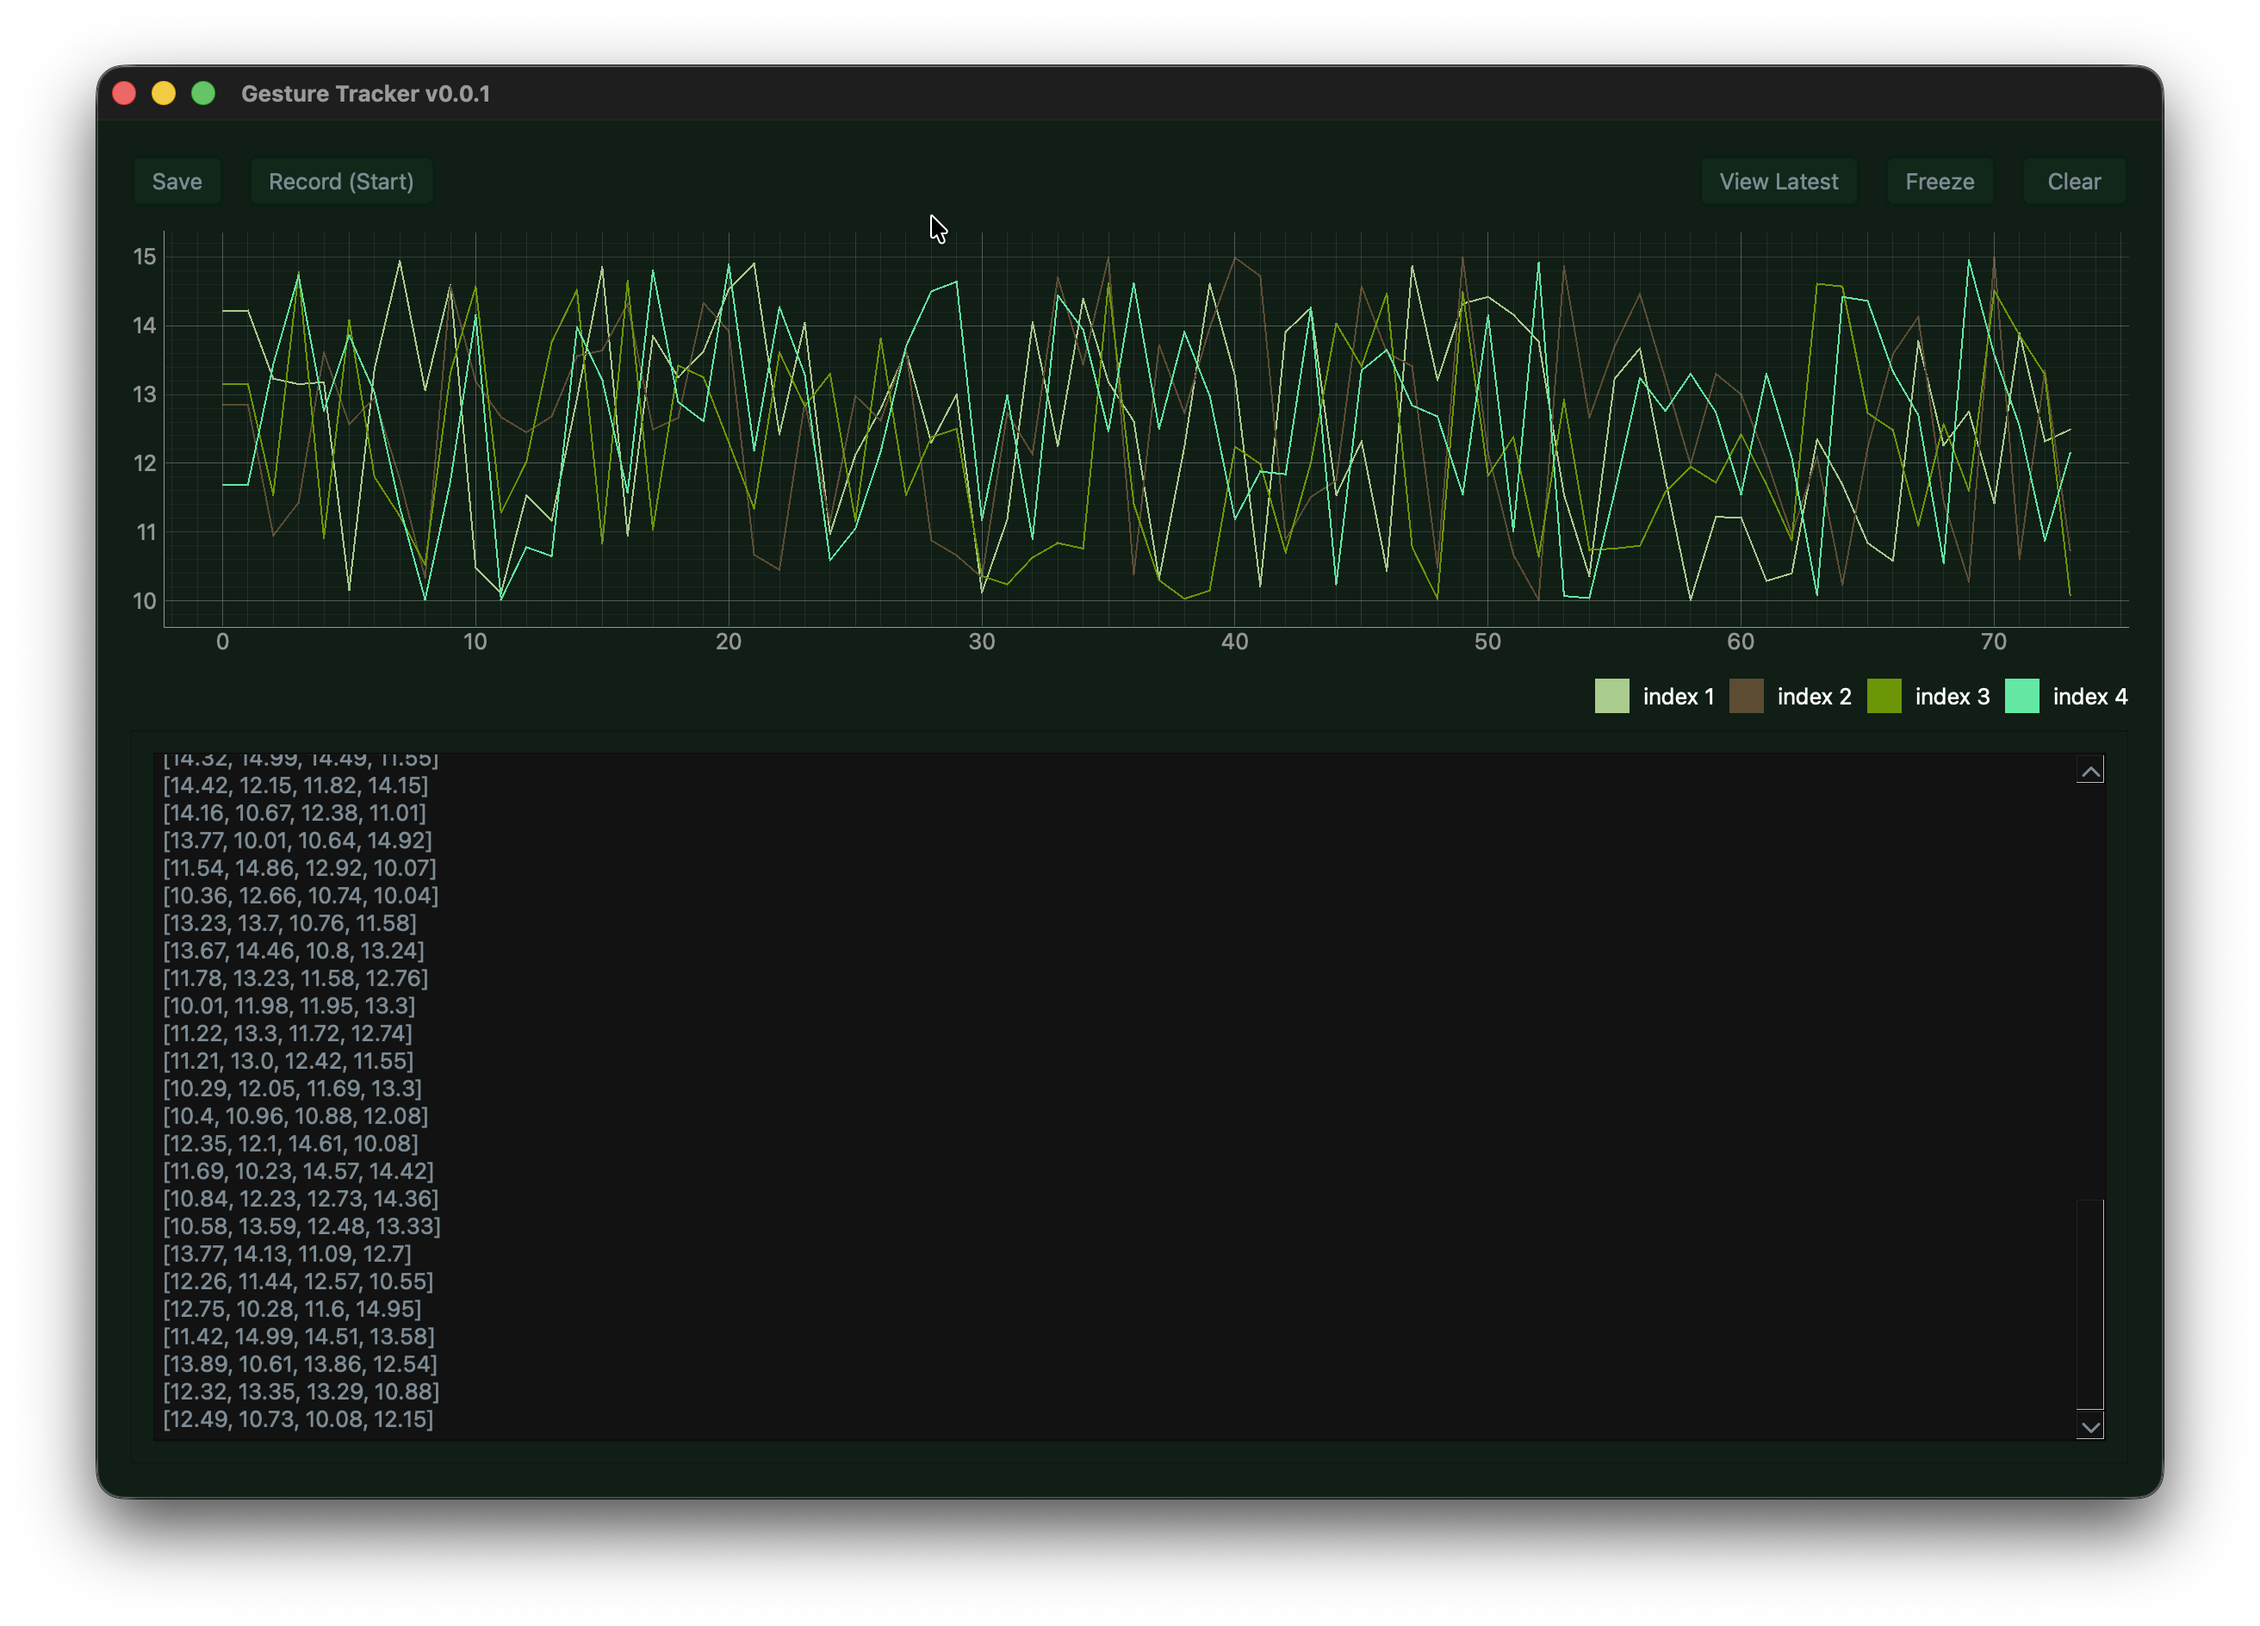
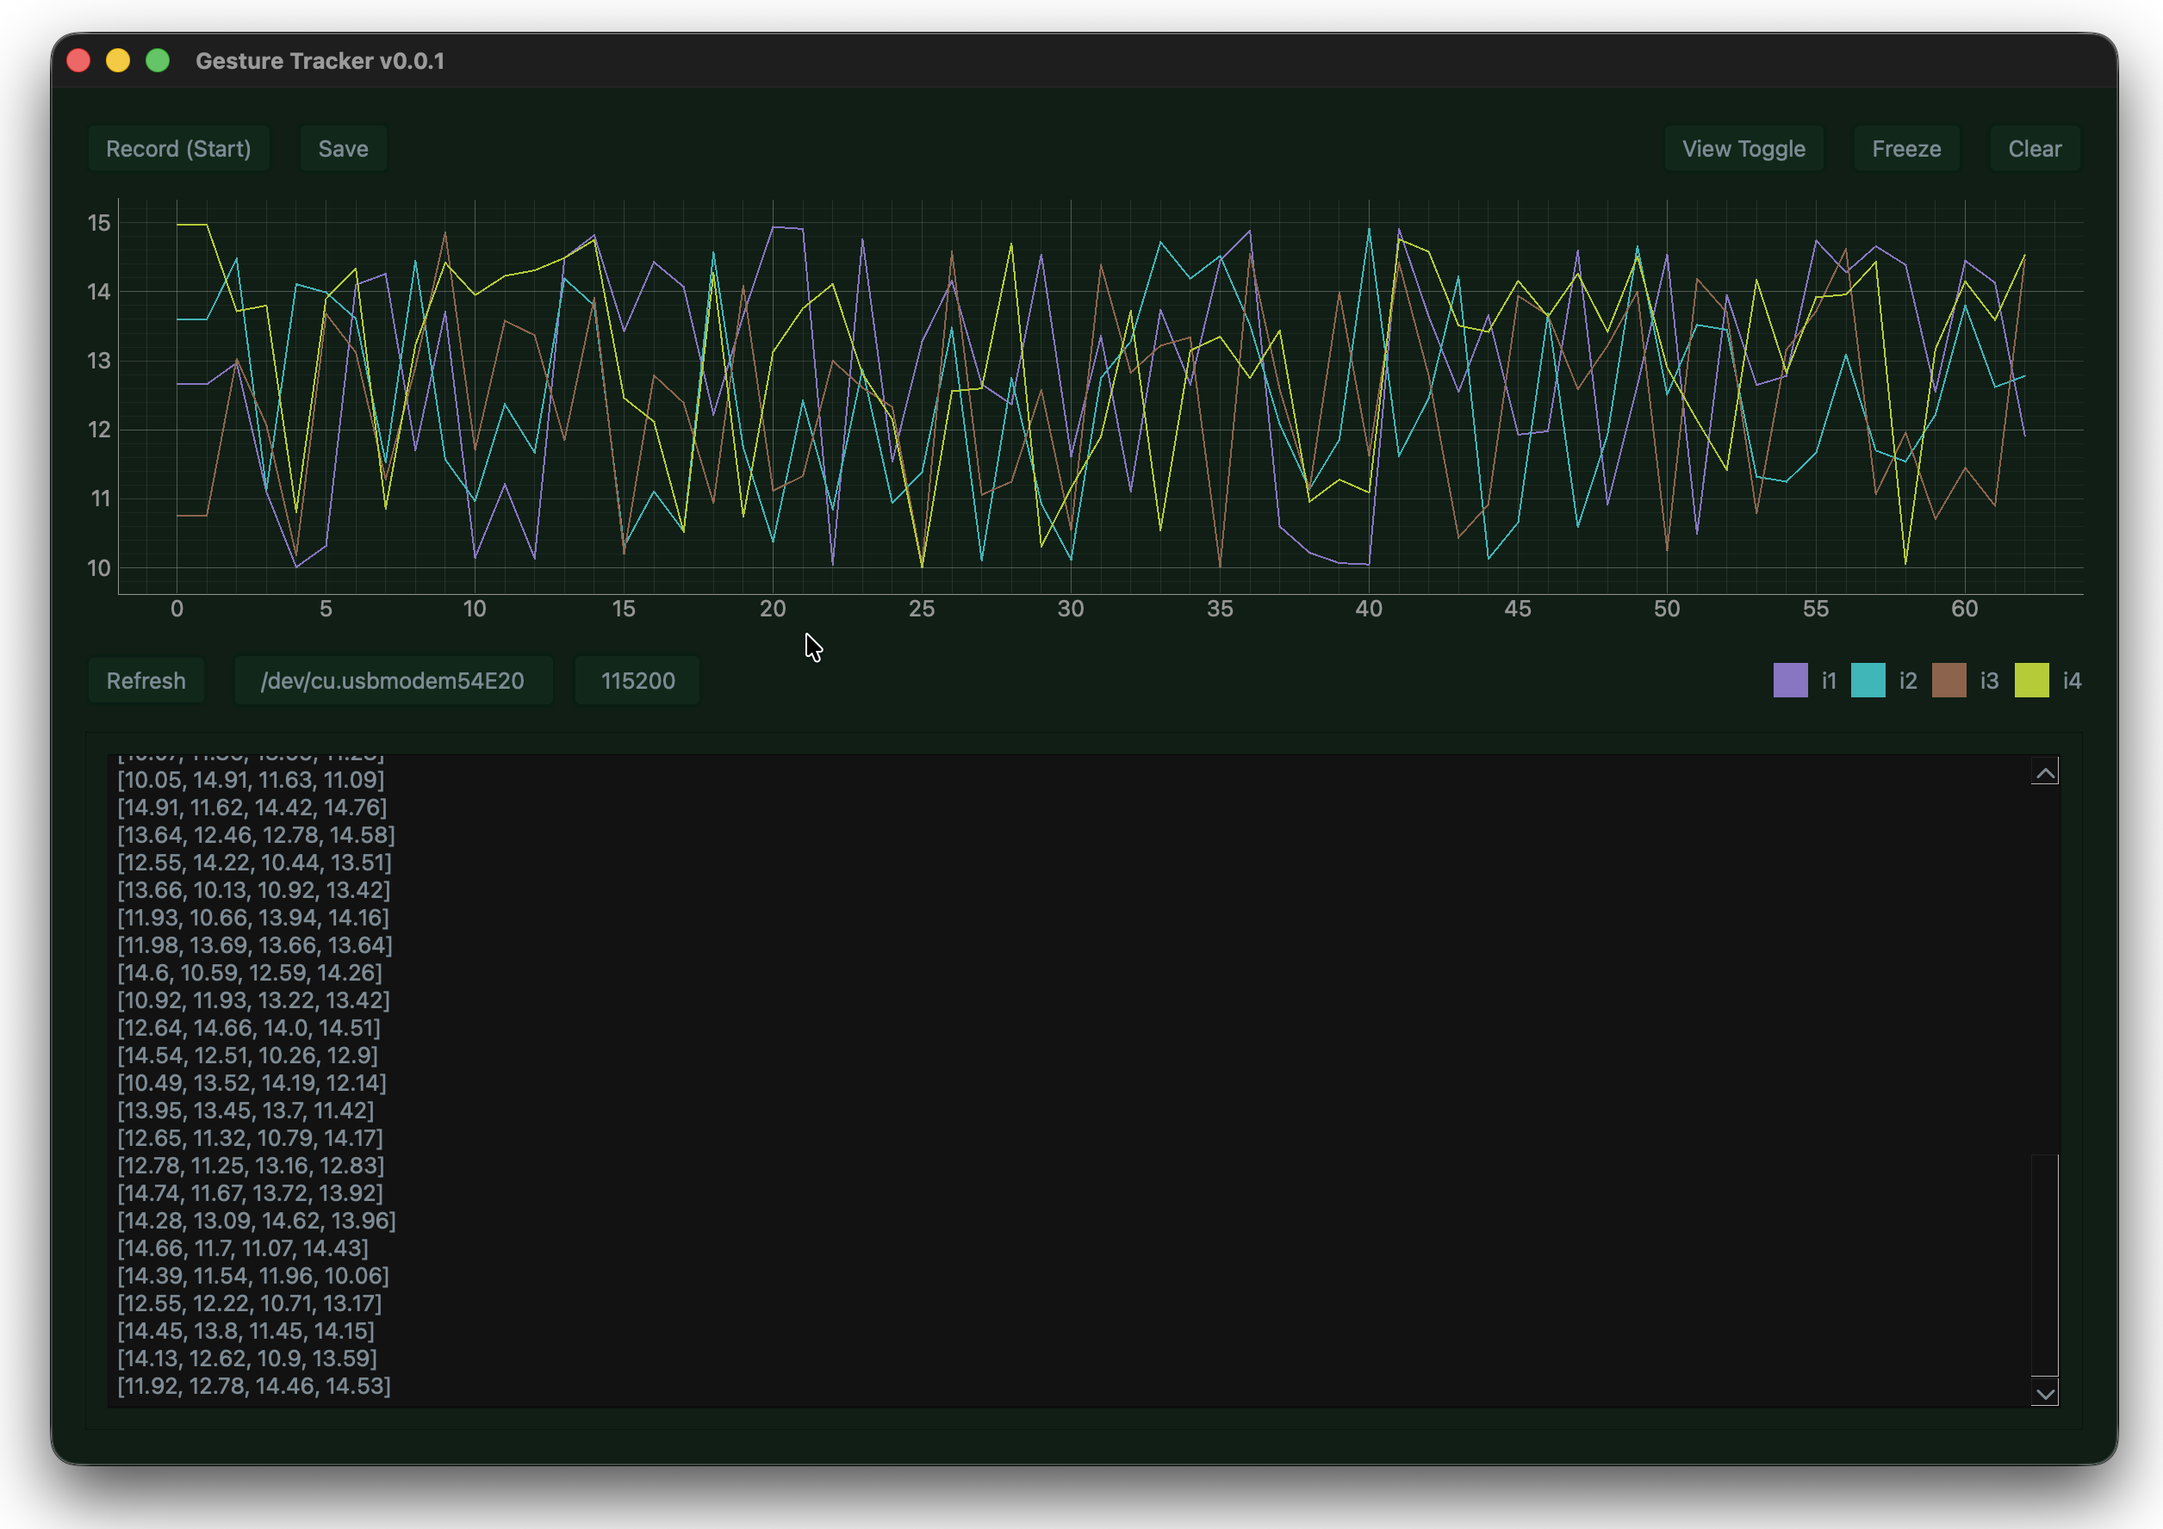
feat: port & baud rate selector
+ added dropdown selector for baud rate and ports, frontend only
~ updated readme with new layout screenshot

diff --git a/window/layout.py b/window/layout.py
@@ -9,6 +9,7 @@ from PySide6.QtWidgets import (
     QLabel,
     QWidget,
     QTextEdit,
+    QComboBox,
     QScrollArea,
     QVBoxLayout,
     QHBoxLayout,
@@ -16,17 +17,19 @@ from PySide6.QtWidgets import (
     QMessageBox
 )
 
-# from utils import connected_ports
+from utils import connected_ports, baud_rates
 from .helper import (
     new_color,
     spaced_element
 )
 from .style import (
     BACKGROUND_COLOR,
+    FONT_COLOR,
     APPLICATION_NAME,
     WINDOW_SIZE,
     GRAPH_HEIGHT,
     RAW_VALUE_BOX_STYLE,
+    COMBOBOX_STYLE
 )
 
 
@@ -54,7 +57,7 @@ class LiveGraph( QWidget ):
 
         self.RecordButton = self.create_button("Record (Start)", self.button_record)
         self.SaveButton = self.create_button("Save", self.button_save)
-        self.DataViewButton = self.create_button("View Toggle", self.button_toggle_recent)
+        self.DataViewButton = self.create_button("Zoom Latest", self.button_toggle_recent)
         self.FreezeButton = self.create_button("Freeze", self.button_freeze)
         self.ClearButton = self.create_button("Clear", self.button_clear_data)
 
@@ -86,6 +89,22 @@ class LiveGraph( QWidget ):
         # Legend
         self.legend_layout = QHBoxLayout()
         self.layout.addLayout( self.legend_layout )
+
+        self.connection_list = QComboBox()
+        self.connection_list.addItems( connected_ports() )
+        self.connection_list.setStyleSheet( COMBOBOX_STYLE )
+        self.connection_list.currentTextChanged.connect( self.print_selected_item )
+
+        ConnectionsRefreshButoon = self.create_button( "Refresh", self.button_refresh_connections )
+
+        self.baud_rate_list = QComboBox()
+        self.baud_rate_list.addItems( baud_rates() )
+        self.baud_rate_list.setStyleSheet( COMBOBOX_STYLE )
+        self.baud_rate_list.currentTextChanged.connect( self.print_selected_item )
+
+        self.legend_layout.addWidget( ConnectionsRefreshButoon )
+        self.legend_layout.addWidget( self.connection_list )
+        self.legend_layout.addWidget( self.baud_rate_list )
         self.legend_layout.addItem( spaced_element() )
 
 
@@ -152,7 +171,8 @@ class LiveGraph( QWidget ):
                     f"background-color: rgb({colors[0]}, {colors[1]}, {colors[2]});"
                 )
 
-                text_label = QLabel( f"index {i+1}" )
+                text_label = QLabel( f"i{i+1}" )
+                text_label.setStyleSheet( f"color: {FONT_COLOR}" )
 
                 h_layout = QHBoxLayout()
                 h_layout.addWidget(square)
@@ -167,7 +187,7 @@ class LiveGraph( QWidget ):
 
 
     def button_toggle_recent( self ) -> None:
-        view_button_options = [ "View Latest", "View All" ]
+        view_button_options = [ "Zoom Latest", "View All" ]
         self.toggle_recent = 0 - 10 - self.toggle_recent
         self.DataViewButton.setText( view_button_options[self.toggle_recent % 11] )
         self.update_plot()
@@ -216,4 +236,13 @@ class LiveGraph( QWidget ):
         current_text = self.RecordButton.text()
         new_text = "Record (Stop)" if current_text == "Record (Start)" else "Record (Start)"
         self.RecordButton.setText(new_text)
+
+
+    def button_refresh_connections( self ) -> None:
+        self.connection_list.clear()
+        self.connection_list.addItems( connected_ports() )
+
+
+    def print_selected_item( self, text: str ) -> None:
+        print( f'Selected item: {text}' )
 

diff --git a/window/style.py b/window/style.py
@@ -4,6 +4,8 @@
 
 BACKGROUND_COLOR: str = "#101e15"
 
+FONT_COLOR: str = "#7d8b94"
+
 APPLICATION_NAME: str = "Gesture Tracker v0.0.1"
 
 WINDOW_SIZE: dict = {
@@ -12,6 +14,8 @@ WINDOW_SIZE: dict = {
 }
 
 GRAPH_HEIGHT: int = 250
+
+RAW_VALUE_BOX_STYLE: str = f"background-color: #121212; color: {FONT_COLOR};"
 
 BUTTON_STYLE: str = """
     QPushButton {
@@ -26,5 +30,14 @@ BUTTON_STYLE: str = """
     }
 """
 
-RAW_VALUE_BOX_STYLE: str = "background-color: #121212; color: #7d8b94;"
+COMBOBOX_STYLE: str = """
+    QComboBox {
+        background-color: #112719;
+        border: 2px solid #0b1e14;
+        border-radius: 5px;
+        padding: 5% 15%;
+        color: #7d8b94;
+    }
+"""
+
 

diff --git a/utils/standards.py b/utils/standards.py
@@ -1,0 +1,12 @@
+
+# utils/standards.py
+
+from typing import List
+
+def baud_rates() -> List[str]:
+    return [
+        "1200", "2400", "4800", "9600",
+        "14400", "19200", "38400", "57600",
+        "115200", "230400", "250000", "500000",
+    ]
+

diff --git a/utils/sysinfo.py b/utils/sysinfo.py
@@ -1,0 +1,9 @@
+
+# utils/sysinfo.py
+
+from typing import List
+
+def connected_ports() -> List[str]:
+    Result: List = []
+    return Result
+

diff --git a/utils/__init__.py b/utils/__init__.py
@@ -1,0 +1,8 @@
+
+# utils/__init__.py
+
+__version__: str = "0.0.1"
+
+from .sysinfo import connected_ports
+from .standards import baud_rates
+
